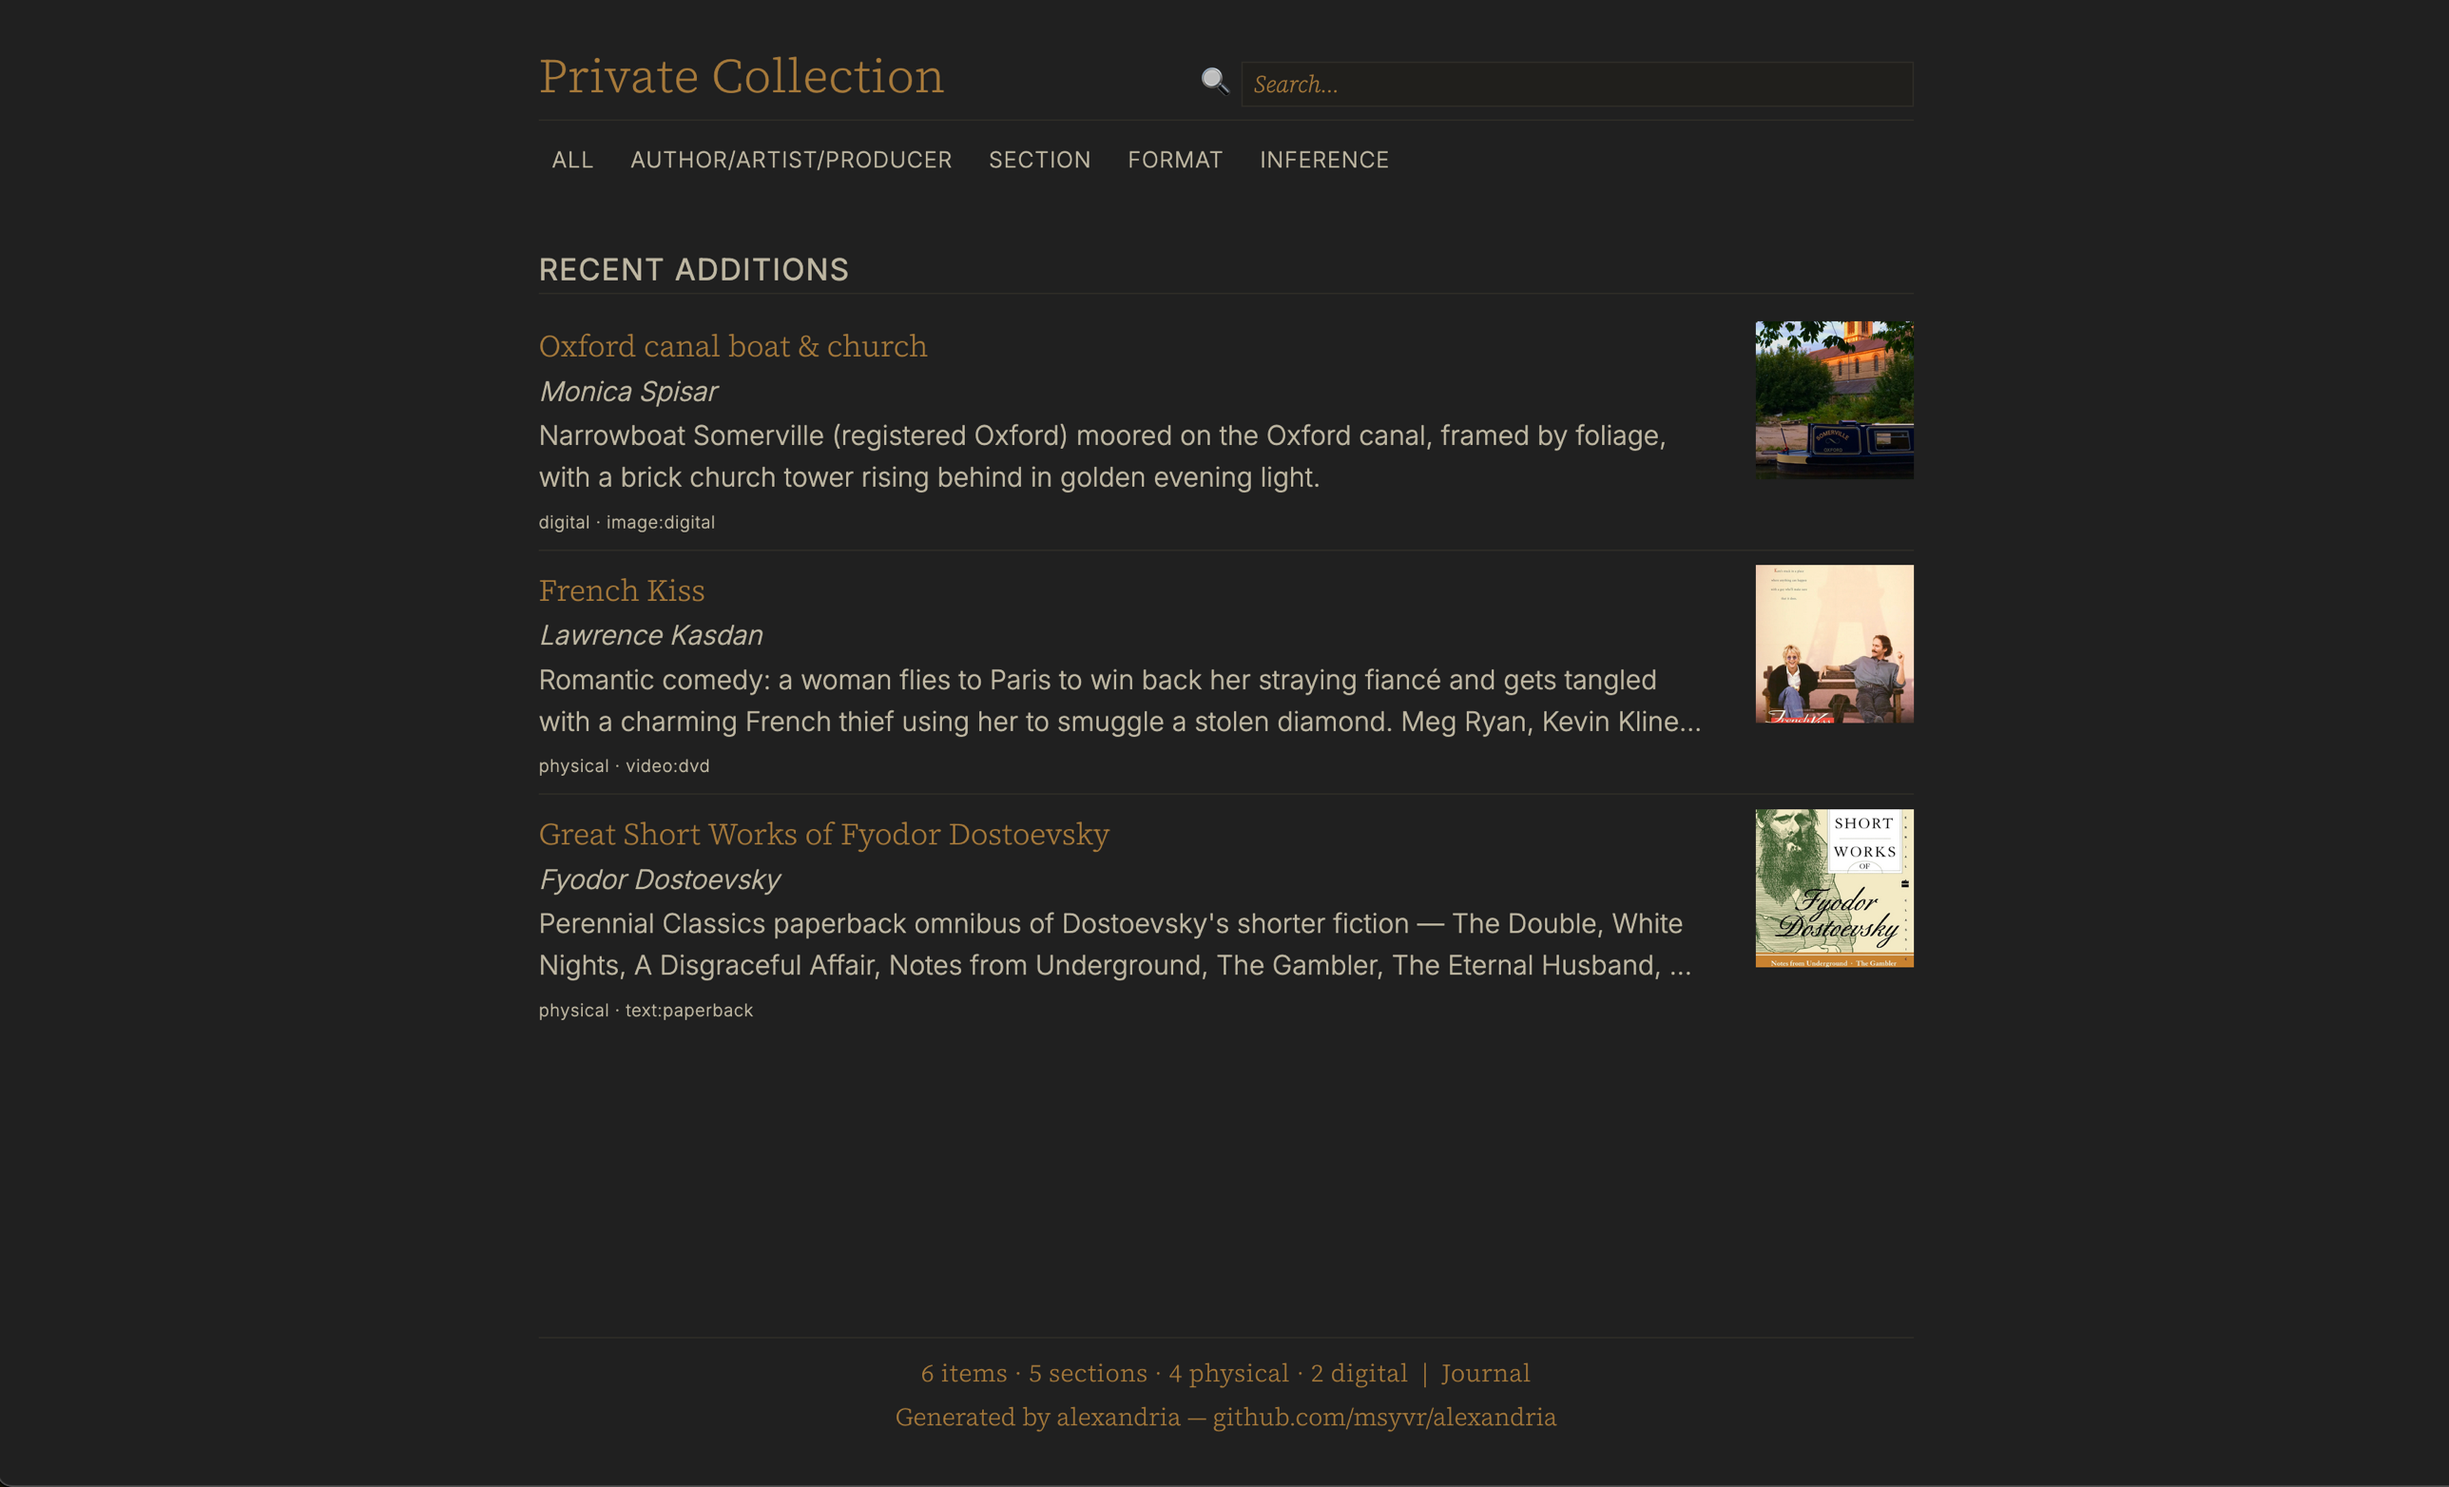
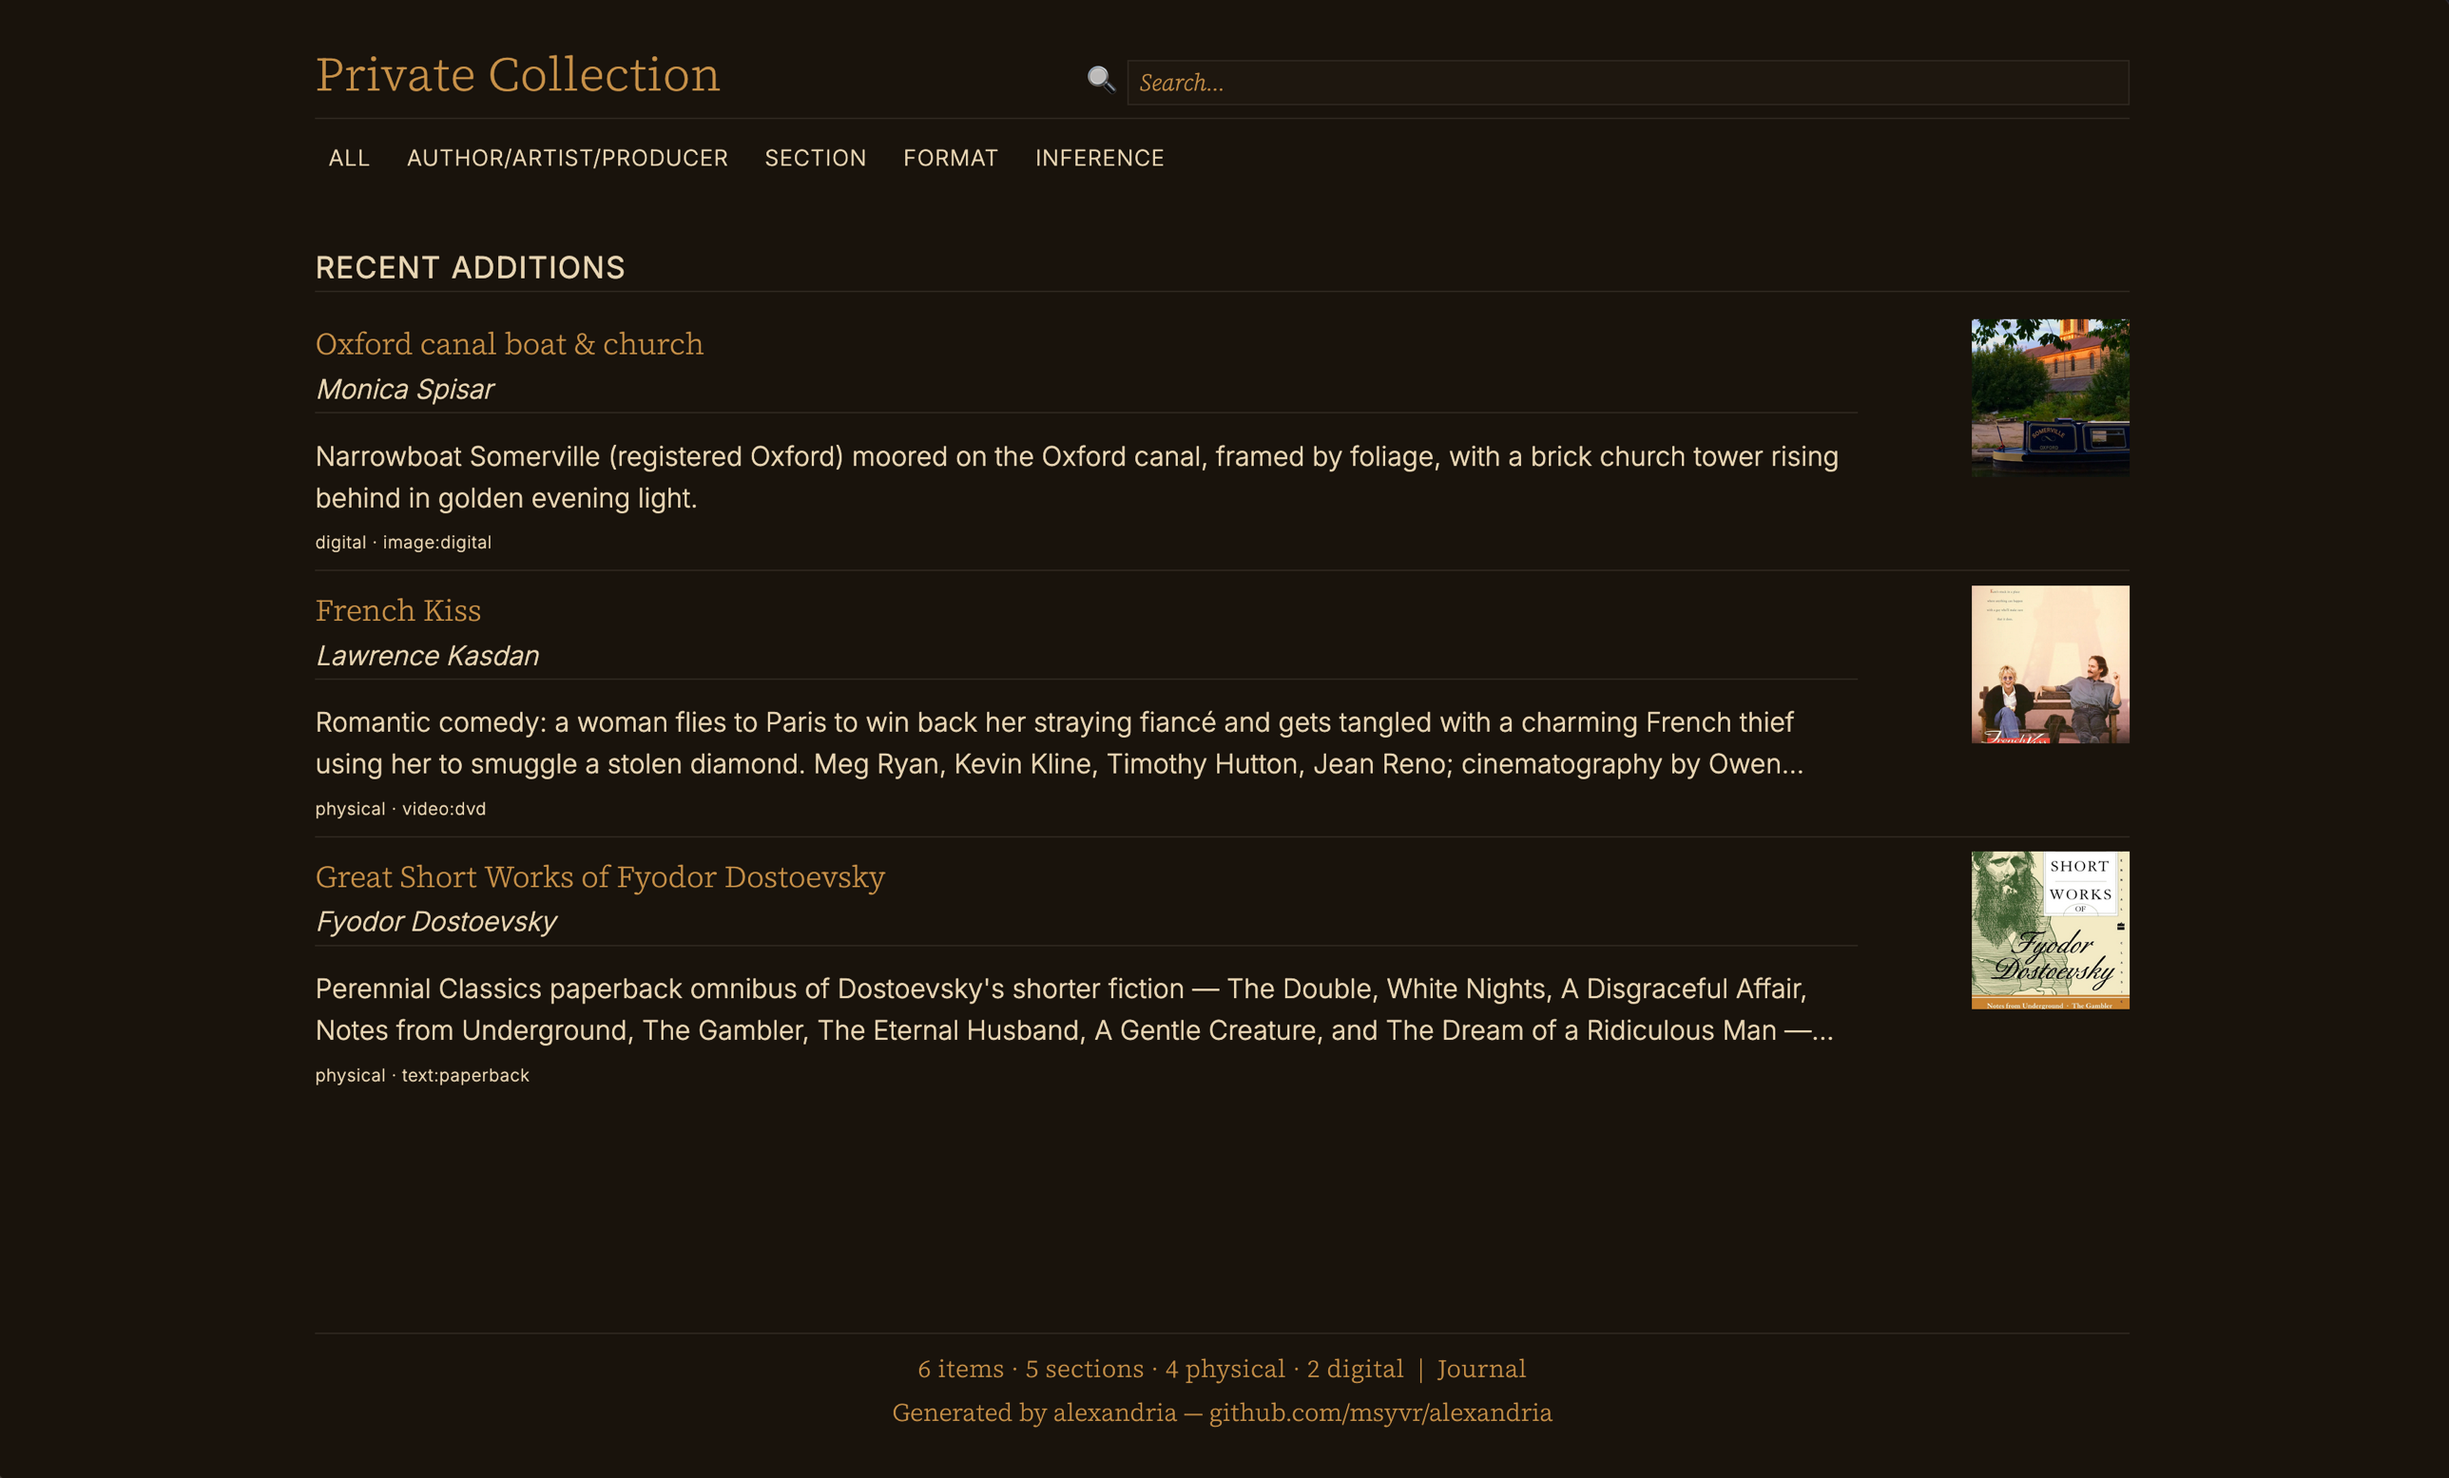
Wiki: mahogany & brass palette
Pull the dark-mode palette out of its mid-band uniform tone into
a deeper-shadow / brighter-text / more-saturated-accent split.
Now reads more like a firelit library than a flat grey page.

  --bg     #202020 → #1a120c   (mahogany shadow)
  --text   #bdb5a1 → #e8d5b3   (parchment cream)
  --accent #a5793b → #c89048   (burnished brass)
  --border #2e2c28 → #2e2620
  --card-bg #211f1c → #1f160f

Refresh README screenshot to match.

diff --git a/tools/_wiki_style.css b/tools/_wiki_style.css
@@ -63,11 +63,11 @@
 
 @media (prefers-color-scheme: dark) {
   :root {
-    --bg: #202020;
-    --text: #bdb5a1;
-    --accent: #a5793b;
-    --border: #2e2c28;
-    --card-bg: #211f1c;
+    --bg: #1a120c;
+    --text: #e8d5b3;
+    --accent: #c89048;
+    --border: #2e2620;
+    --card-bg: #1f160f;
     --removed: #c46060;
   }
 }
